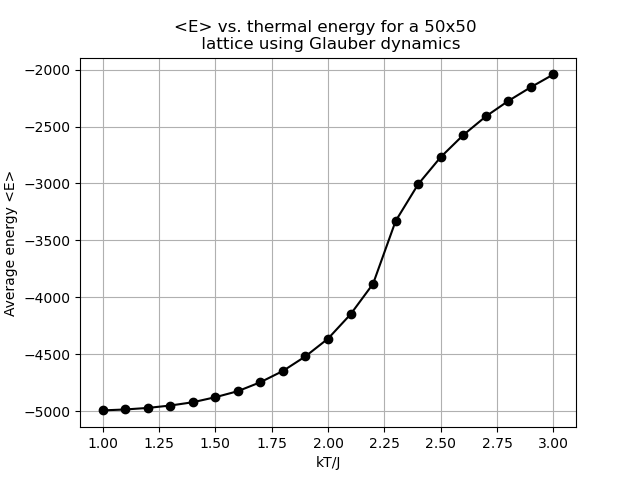
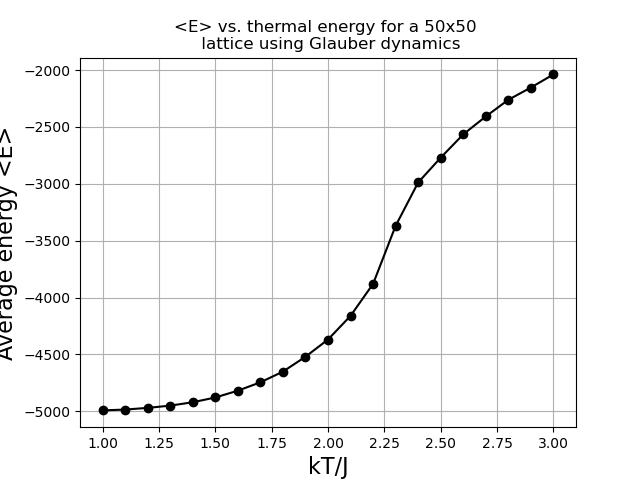
CP 1: Fixed mistake in uncertainty computation and increased figure caption size

diff --git a/Checkpoint 1/Checkpoint 1.py b/Checkpoint 1/Checkpoint 1.py
@@ -296,9 +296,10 @@ class IsingModel:
         if plot == True:
             plt.plot(kT_data, abs_m_avg_T, marker = "o", color = "g")
             plt.grid(which = "both")
-            plt.xlabel("kT/J")
-            plt.ylabel(f"Absolute magnetisation |M|")
-            plt.title(f"|M| vs. thermal energy for a {self.size}x{self.size} \n lattice using Glauber dynamics")
+            plt.xlabel("kT/J", fontsize = 16)
+            plt.ylabel(f"Absolute magnetisation |M|", fontsize = 16)
+            plt.title(f"|M| vs. thermal energy for a {self.size}x{self.size} \n lattice using Glauber dynamics", fontsize = 12)
+            plt.tight_layout()
             plt.savefig(f"Abs_mag_Glauber")
             plt.show()
         
@@ -349,7 +350,7 @@ class IsingModel:
                 chi_index += 1
             
             #Calculate overall error on chi for each T
-            chi_error = np.sqrt(np.mean(chi_data ** 2) + (np.mean(chi_data))**2)
+            chi_error = np.sqrt(np.mean(chi_data ** 2) - (np.mean(chi_data))**2)
             chi_error_T[chi_T_index] = (chi_error)
             chi_T_index += 1
             print(f"Errors for kT = {array[i,0]} done")
@@ -369,9 +370,10 @@ class IsingModel:
         if plot == True:
             plt.errorbar(kT_data, chi_data, yerr= chi_errors, marker = "o", color = "purple")
             plt.grid(which = "both")
-            plt.xlabel(f"kT/J")
-            plt.ylabel(r"Magnetic susceptibility $\chi$")
-            plt.title(f"Susceptibility vs. thermal energy for a {self.size}x{self.size} \n lattice using Glauber Dynamics")
+            plt.xlabel(f"kT/J", fontsize = 16)
+            plt.ylabel(r"Magnetic susceptibility $\chi$", fontsize = 16)
+            plt.title(f"Susceptibility vs. thermal energy for a {self.size}x{self.size} \n lattice using Glauber Dynamics", fontsize = 12)
+            plt.tight_layout()
             plt.savefig(f"Chi_Glauber")
             plt.show()
 
@@ -447,9 +449,10 @@ class IsingModel:
 
             plt.plot(kT_data, e_avg_T, marker = "o", color = "black")
             plt.grid(which = "both")
-            plt.xlabel("kT/J")
-            plt.ylabel(f"Average energy <E>")
-            plt.title(f"<E> vs. thermal energy for a {self.size}x{self.size} \n lattice using {dynamics} dynamics")
+            plt.xlabel("kT/J", fontsize = 16)
+            plt.ylabel(f"Average energy <E>", fontsize = 16)
+            plt.title(f"<E> vs. thermal energy for a {self.size}x{self.size} \n lattice using {dynamics} dynamics", fontsize = 12)
+            plt.tight_layout()
             plt.savefig(f"Avg_E_{dynamics}")
             plt.show()
 
@@ -500,7 +503,7 @@ class IsingModel:
                 c_index += 1
             
             #Calculate overall error on heat capacity for each T
-            c_error = np.sqrt(np.mean(c_data ** 2) + (np.mean(c_data))**2)
+            c_error = np.sqrt(np.mean(c_data ** 2) - (np.mean(c_data))**2)
             c_error_T[c_T_index] = (c_error)
             c_T_index += 1
             print(f"Errors for kT = {array[i,0]} done")
@@ -520,9 +523,10 @@ class IsingModel:
         if plot == True:
             plt.errorbar(kT_data, c_data, yerr= c_errors, marker = "o", color = "orange")
             plt.grid(which = "both")
-            plt.xlabel(f"kT/J")
-            plt.ylabel(f"Heat capacity C")
-            plt.title(f"Heat capacity vs. thermal energy for a {self.size}x{self.size} \n lattice using {dynamics} Dynamics")
+            plt.xlabel(f"kT/J", fontsize = 16)
+            plt.ylabel(f"Heat capacity C", fontsize = 16)
+            plt.title(f"Heat capacity vs. thermal energy for a {self.size}x{self.size} \n lattice using {dynamics} Dynamics", fontsize = 12)
+            plt.tight_layout()
             plt.savefig(f"Heat_cap_{dynamics}")
             plt.show()
 
